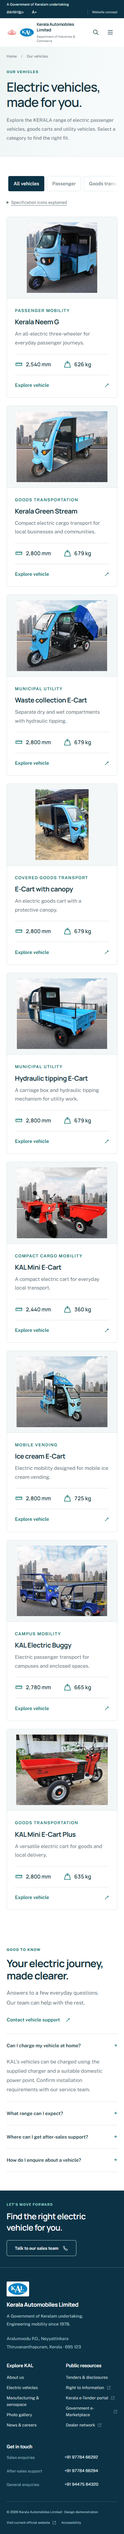
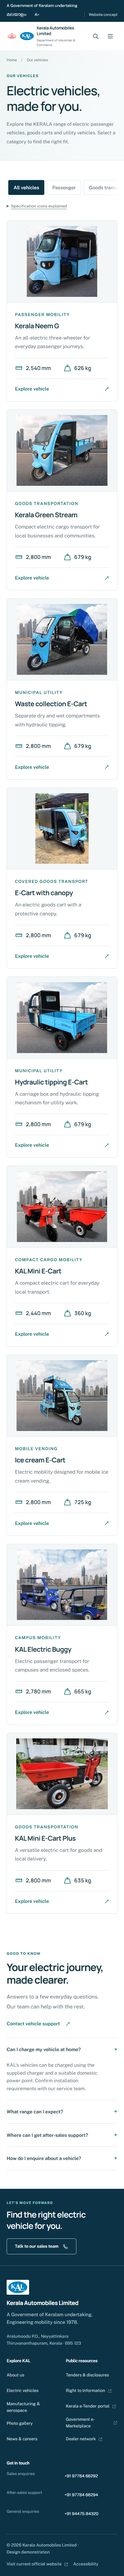
fix: align mobile header and remove hero dead space

diff --git a/src/style.css b/src/style.css
@@ -3932,26 +3932,68 @@ html {
   .utility-inner {
     display: grid;
     grid-template-columns: minmax(0, 1fr);
-    padding-block: 6px 2px;
+    padding-block: 8px 4px;
     gap: 0;
   }
   .utility-inner > span {
-    font-size: 0.66rem;
-    line-height: 1.4;
+    font-size: 0.75rem;
+    line-height: 1.5;
   }
   .utility-links {
     margin-left: 0;
     width: 100%;
     gap: 14px;
-    min-height: 32px;
+    min-height: 36px;
+    align-items: center;
   }
   .utility-links a,
   .text-control {
-    min-height: 32px;
+    min-height: 36px;
+    font-size: 0.75rem;
+    line-height: 1.5;
+    align-items: center;
   }
   .concept-label {
     margin-left: auto;
     padding-left: 12px;
+    font-size: 0.7rem;
+    line-height: 1.5;
+  }
+  .text-control > span {
+    align-self: center;
+    font-size: 0.65rem;
+    line-height: 1;
+  }
+  .utility-links > a,
+  .concept-label {
+    white-space: nowrap;
+  }
+  .large-text .utility-links {
+    flex-wrap: wrap;
+    gap: 0 14px;
+  }
+  .large-text .concept-label {
+    margin-left: 0;
+    white-space: normal;
+  }
+  .resource-grid p,
+  .capabilities p,
+  .faq-list details > p,
+  .catalog-note,
+  .footer-brand > p {
+    font-size: 0.9rem;
+    line-height: 1.65;
+  }
+  .footer-main h3,
+  .footer-main > div > a,
+  .footer-bottom,
+  .footer-bottom > p {
+    font-size: 0.8rem;
+  }
+  .footer-main > div > a {
+    min-height: 36px;
+    display: flex;
+    align-items: center;
   }
   .masthead {
     min-height: 78px;
@@ -4016,7 +4058,7 @@ html {
     aspect-ratio: 1.05;
   }
   .large-text .hero-slide .hero-inner {
-    padding-bottom: 3rem;
+    padding-bottom: 2rem;
   }
   .large-text .gallery-preview-photo > span {
     position: static;
@@ -4026,7 +4068,7 @@ html {
 }
 @media (max-width: 370px) {
   .brand-text strong {
-    font-size: 0.7rem;
+    font-size: 0.75rem;
   }
   .brand-text > span {
     font-size: 0.55rem;

diff --git a/src/carousel.css b/src/carousel.css
@@ -195,9 +195,9 @@
     object-position: center top;
   }
   .hero-slide .hero-inner {
-    min-height: max(38rem, calc(100svh - var(--header-height)));
+    min-height: 0;
     padding-top: calc(48vw - 3rem);
-    padding-bottom: 6rem;
+    padding-bottom: 1.5rem;
     align-items: flex-start;
   }
   .hero-slide .hero-copy {
@@ -254,9 +254,9 @@
     display: none;
   }
   .hero-slide .hero-inner {
-    min-height: max(37rem, calc(100svh - var(--header-height, 130px)));
+    min-height: 0;
     padding-top: calc(75vw - 0.5rem);
-    padding-bottom: 6rem;
+    padding-bottom: 1.5rem;
     align-items: flex-start;
   }
   .hero-slide .hero-copy {
@@ -298,8 +298,24 @@
     flex-wrap: wrap;
   }
 }
+/* Keep support beside the content on stacked layouts, independent of screen height. */
+@media (max-width: 1100px) {
+  .hero-support {
+    position: relative;
+    bottom: auto;
+    padding-bottom: 1.5rem;
+  }
+  .hero-support a {
+    font-size: 0.8rem;
+  }
+}
 .large-text .hero-slide .hero-inner {
   padding-bottom: 6rem;
+}
+@media (max-width: 1100px) {
+  .large-text .hero-slide .hero-inner {
+    padding-bottom: 2rem;
+  }
 }
 .large-text .hero-support {
   display: none;

diff --git a/audit/POLISH.md b/audit/POLISH.md
@@ -4,6 +4,8 @@ Reviewed 3 October 2026, following the user's request to hide the carousel and h
 
 ## Decisions
 
+- Follow-up mobile refinement: the utility bar uses consistent readable text sizes and centered link alignment, with wrapping at 200% text. Mobile and tablet heroes follow their content instead of filling the viewport; support sits in normal flow below the shared slide stage. The stage still reserves the tallest scene to avoid movement during rotation. Small body text in resources, capabilities, FAQs and the footer is enlarged, and footer links have more usable spacing. Desktop hero framing remains unchanged.
+
 - The desktop homepage identity and navigation now sit over the authentic vehicle scene. The utility bar retains government affiliation, language access, text enlargement and the concept label. Navigation becomes a solid navy strip as the page scrolls. Supporting pages retain their white government masthead.
 - Mobile utility links share a deliberate left baseline. Identity, official marks, search and menu are aligned in a compact row, with a smaller text treatment at 320 px and content-driven expansion at 200% text.
 - The hero's arrows and numbered control row are removed. Both systems rotate automatically in normal browsing. Their pause controls are visually hidden and become visible on keyboard focus, preserving access for keyboard and screen-reader users. Keyboard slide navigation, touch swipe, focus pause, reduced motion, document visibility and offscreen protections remain. A swipe without keyboard focus resets the normal rotation interval; keyboard navigation retains its explicit-resume behavior.

diff --git a/audit/QA.md b/audit/QA.md
@@ -8,6 +8,8 @@ Verified against the local refinement and subsequent visual polish on 3 October 
 
 ## Browser checks
 
+The follow-up mobile pass removes viewport-driven hero height on stacked layouts. Regression checks now assert that support sits within 80 px of each scene's actions, changing a phone's height to 1200 px does not stretch the hero, and utility links share a vertical center. Mobile top-bar text and enlarged text wrap without overflow. Small section text and footer links have increased size and spacing.
+
 The optional `scripts/check-browser.mjs` passes all 16 checks against the production preview using headless Chromium and the existing Playwright installation. No console errors or page errors were recorded. `browser-results.json` records the final results.
 
 - All 18 routes pass horizontal overflow and landmark checks at 320, 375, 390, 768, 1024 and 1440 px: 108 viewport/route combinations.
